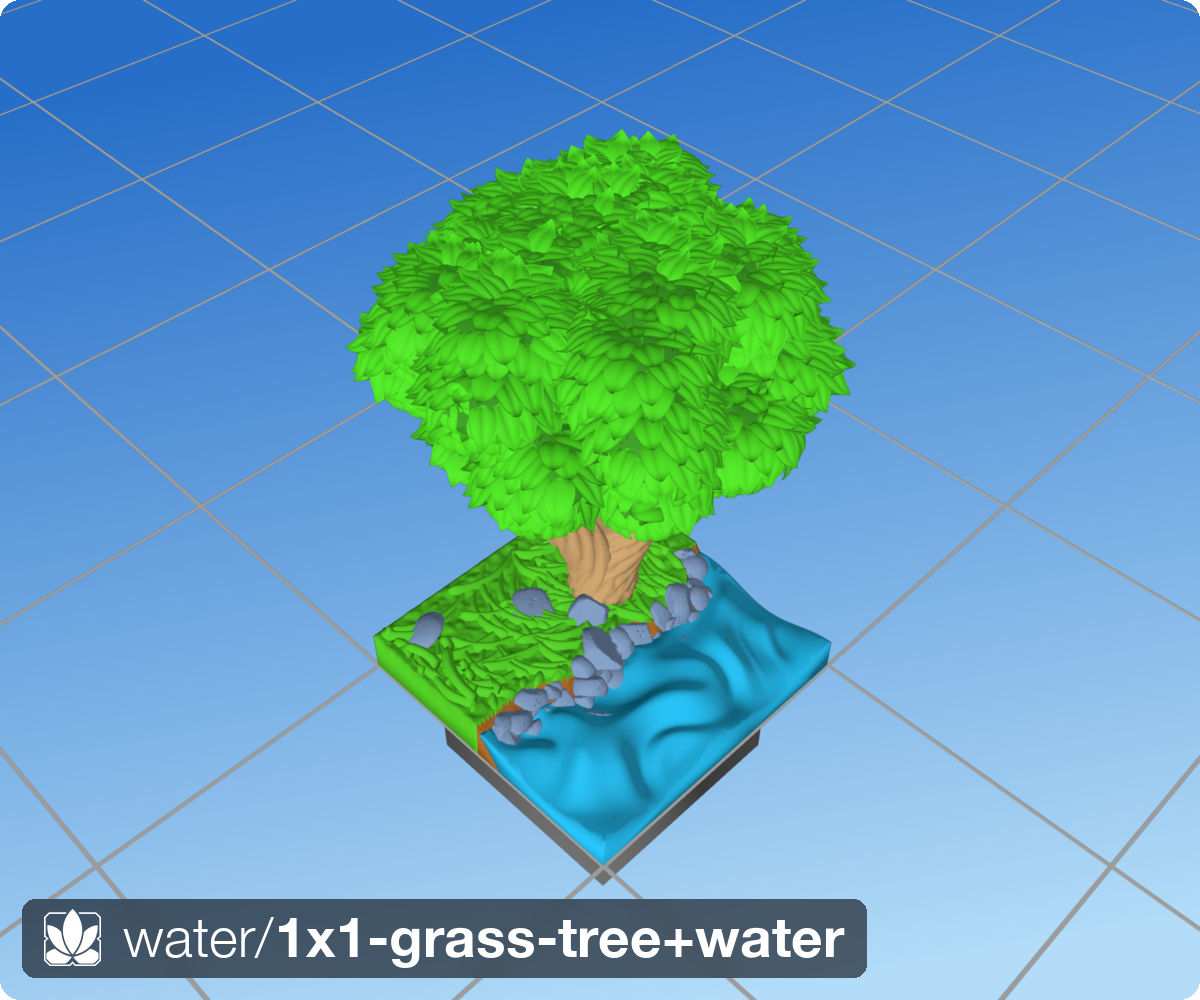
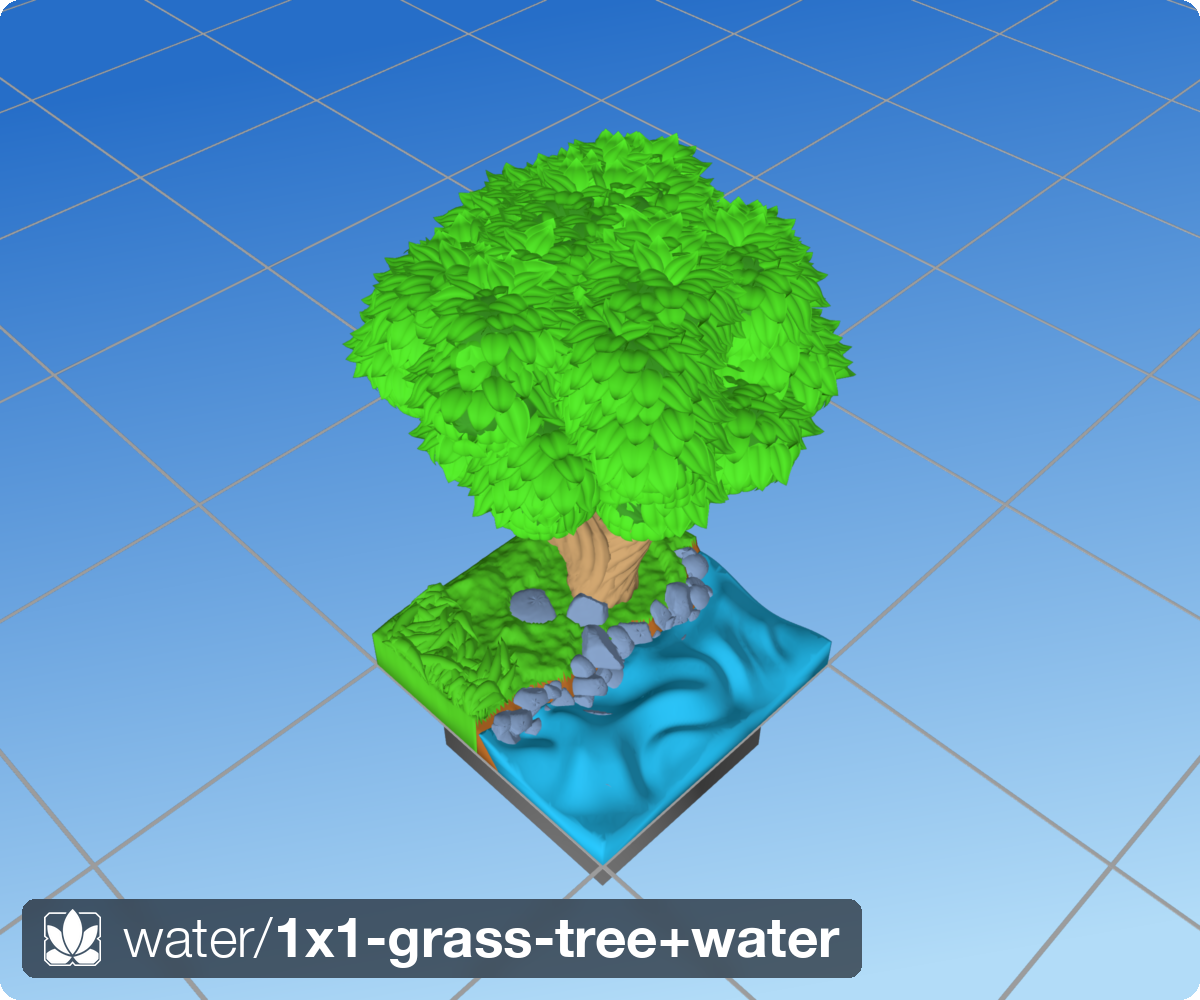
Make bushy mound-thatch grass the system default for all grass
- scatter.Grass is now a compat shim over ThatchGrass: legacy
  species/placement args are accepted but ignored — every tile gets the
  accepted bushy grass.  The old field simulation survives as
  FloppyGrass (unexported) per the design's keep/delete inventory.
- ThatchGrass builds its own mound substrate (the accepted relief), faded
  at tile edges, region-mask edges, and obstacle footprints, preserving
  stamped rock/tree support.  Tiles need no spec changes.
- 1x1-grass-tree+water: obstacle-stampers (Rocks, Tree) reordered before
  GrassCarpet so carpet tubes end at footprints instead of being impaled;
  regenerated at both scales (grass layer now 0.22s vs the old sim).
- swrender: render true per-face colors when present.

diff --git a/src/dharmatiles/grass/thatch.py b/src/dharmatiles/grass/thatch.py
@@ -51,6 +51,8 @@ _EDGE_MARGIN_MM    = 0.0    # spines may reach the tile edge exactly; blade
                             # side overhang is clamped to the tile wall after
                             # meshing (REQ-OUT-2), so grass runs edge-to-edge
 _SIZE_JITTER_LO    = 0.75   # downward-only size jitter (leaf-era iter-3 lesson)
+_MOUND_FADE_OBST_MM = 2.5   # mound field fades to zero against obstacle footprints
+_MOUND_FADE_MASK_MM = 2.0   # ... and at region-mask edges (tileability decision)
 _SKIRT_HEIGHT_MM   = 0.8    # soil berm rising against rock bases (turf line climbs)
 _SKIRT_WIDTH_MM    = 2.5    # gaussian falloff of the skirt from the footprint edge
 _ROCK_CLIMB_MM     = 1.3    # blades may ride up a rock's lower slope this far
@@ -89,14 +91,57 @@ class ThatchGrass:
         tile_w  = (gw - 1) * cell_w
         tile_h  = (gh - 1) * cell_w
 
+        dist_mm = None
+        if scene.obstacle_mask is not None and scene.obstacle_mask.any():
+            dist_mm = distance_transform_edt(~scene.obstacle_mask) * cell_w
+
+        # ── Mound substrate (the accepted lumpy relief, built in) ────────────
+        # The mound-thatch look is relief-first: a blob field added into
+        # terrain_z before any blade exists.  Faded at region-mask edges
+        # (tileability decision), against obstacle footprints (rocks placed
+        # earlier must not be buried), and at tile edges (inside the kernel).
+        from ..core.config import SoilConfig
+        from ..layers.soil import _compute_bump_field
+        mound_cfg = SoilConfig(
+            n_blobs=30,
+            blob_sigma=D.triangular(1.4, 1.9, 2.5),
+            blob_h_scale=D[0.6:1.05],
+            blob_power=2.5,
+            blob_aspect=D[0.55:0.95],
+            blob_shape_noise_amp=0.12,
+            blob_jitter=0.85,
+            blob_cluster_count=0,
+            n_small=6,
+            small_sigma=D[3.0:4.5],
+            small_h=D[0.7:1.4],
+            surface_texture_amp=0.0,
+            surface_texture2_amp=0.0,
+            edge_fade_mm=2.0,
+        )
+        bump = _compute_bump_field(
+            mound_cfg, derive_seed(surface.seed, 'thatch-mounds'),
+            gh=gh, gw=gw, cell_mm=cell_w,
+            n_squares=surface.cols * surface.rows,
+        )
+        if placement_mask is not None and not placement_mask.all():
+            mdist_mm = distance_transform_edt(placement_mask) * cell_w
+            bump *= 0.5 * (1.0 - np.cos(np.pi * np.clip(
+                mdist_mm / _MOUND_FADE_MASK_MM, 0.0, 1.0)))
+        if dist_mm is not None:
+            bump *= np.clip(dist_mm / _MOUND_FADE_OBST_MM, 0.0, 1.0)
+        old_support = scene.terrain_support_z.copy()
+        scene.displace_terrain(bump, placement_mask)
+        np.maximum(scene.terrain_support_z, old_support,
+                   out=scene.terrain_support_z)
+        np.maximum(scene.vegetation_support_z, scene.terrain_support_z,
+                   out=scene.vegetation_support_z)
+
         # ── Soil skirt against obstacle bases (rock-lapping) ─────────────────
         # A feathered berm rises against each rock so the turf line climbs
         # the stone instead of meeting it at a flat waterline.  Raising the
         # cells under the footprint too buries the rock base slightly —
         # intended (iceberg read).  Max gradient ≈ H·0.86/W ≈ 15°: FDM-safe.
-        dist_mm = None
-        if scene.obstacle_mask is not None and scene.obstacle_mask.any():
-            dist_mm = distance_transform_edt(~scene.obstacle_mask) * cell_w
+        if dist_mm is not None:
             skirt = _SKIRT_HEIGHT_MM * np.exp(-(dist_mm / _SKIRT_WIDTH_MM) ** 2)
             skirt[skirt < 1e-3] = 0.0
             skirt[scene.obstacle_mask] = 0.0   # rim berm only — don't bury the rock further

diff --git a/src/dharmatiles/scatter/prototype.py b/src/dharmatiles/scatter/prototype.py
@@ -13,6 +13,7 @@ import numpy as np
 import trimesh
 
 from ..core.config import _RocksConfig, SpeciesConfig, GrassConfig as _RuntimeGrassConfig
+from ..grass.thatch import ThatchGrass as _ThatchGrass
 from ..core.tile import derive_seed
 from ..dist import bounds, sample
 from .config import Uniform, Grouped
@@ -110,16 +111,34 @@ class Rocks:
 
 # ── Grass ─────────────────────────────────────────────────────────────────────
 
-class Grass:
-    """Grow a field of 3D grass blades into a region layer list.
+class Grass(_ThatchGrass):
+    """All grass in the system is the accepted bushy mound-thatch grass
+    (Shawn, 2026-07-03): ``Grass`` is a compat shim over
+    ``dharmatiles.grass.thatch.ThatchGrass``, which builds its own mound
+    substrate, soil skirts against obstacles, and draped sheaf blades.
 
-    Pass a ``SpeciesConfig`` (sharable with a companion ``GrassCarpet``)
-    to specify blade geometry.  Pass ``placement=Grouped(...)`` to control
-    grouping and density; default is 3 Voronoi groups per square.
+    Legacy arguments are accepted but ``species`` and ``placement`` are
+    IGNORED — the accepted default species and grid placement always
+    apply, so every tile gets the same approved grass.  Use
+    ``ThatchGrass`` directly to experiment with a custom species.
 
-    Unlike ``Rocks``, ``Grass`` is a *field simulation*: each blade's
+    Keep ``Rocks``/``Tree`` before ``Grass`` in ``Region.layers`` (the
+    skirt, crowding, and deflection all read the stamped obstacles).
+    """
+
+    def __init__(self, species=None, *, placement=None,
+                 max_stack_height: float = 1.2):
+        super().__init__(None, max_stack_height=max_stack_height)
+
+
+class FloppyGrass:
+    """The pre-2026-07-03 field-simulation grass (superseded by Grass /
+    ThatchGrass; kept until the mound-thatch system is fully accepted —
+    see docs/design/grass-mound-thatch.md keep/delete inventory).
+
+    Unlike ``Rocks``, ``FloppyGrass`` is a *field simulation*: each blade's
     growth path depends on prior blades' shared occupancy grid.  Place
-    ``Rocks`` (and any other obstacle-stamping layers) before ``Grass``
+    ``Rocks`` (and any other obstacle-stamping layers) before it
     in ``Region.layers`` so blades route around existing footprints.
     """
 

diff --git a/src/tiles/water/1x1-grass-tree+water.tile.py b/src/tiles/water/1x1-grass-tree+water.tile.py
@@ -48,11 +48,9 @@ tile = Tile(
             id='meadow',
             selector=FloodFill(0.5, 0.75),
             layers=[
-                GrassCarpet(
-                    species=_species,
-                    placement=Grouped(groups_per_square=3),
-                ),
-                # Rocks first — stamp obstacle_mask so tree and grass steer around them
+                # Obstacle-stampers (Rocks, Tree) run before the carpet and
+                # grass: carpet tubes end at footprints instead of being
+                # impaled, and the thatch skirts/deflects around them.
                 Rocks(
                     r=D[2.0:3.5],
                     placement=Uniform(count_per_square=4),
@@ -67,6 +65,10 @@ tile = Tile(
                     leaf_length_mm=4.5,
                     leaf_width_mm=3.0,
                     leaf_curl_deg=32.0,
+                ),
+                GrassCarpet(
+                    species=_species,
+                    placement=Grouped(groups_per_square=3),
                 ),
                 Grass(
                     species=_species,

diff --git a/src/extras/swrender.py b/src/extras/swrender.py
@@ -47,6 +47,10 @@ def main():
     for m in meshes:
         v, f = m.vertices, m.faces
         verts_all.append(v); faces_all.append(f + off); off += len(v)
+        fc = getattr(m.visual, 'face_colors', None)
+        if fc is not None and len(fc) == len(f) and fc[:, :3].any():
+            cols_all.append(fc[:, :3].astype(float) / 255.0)
+            continue
         mat = m.metadata.get('material')
         if mat is not None and mat in PALETTE:
             c = PALETTE[mat]
